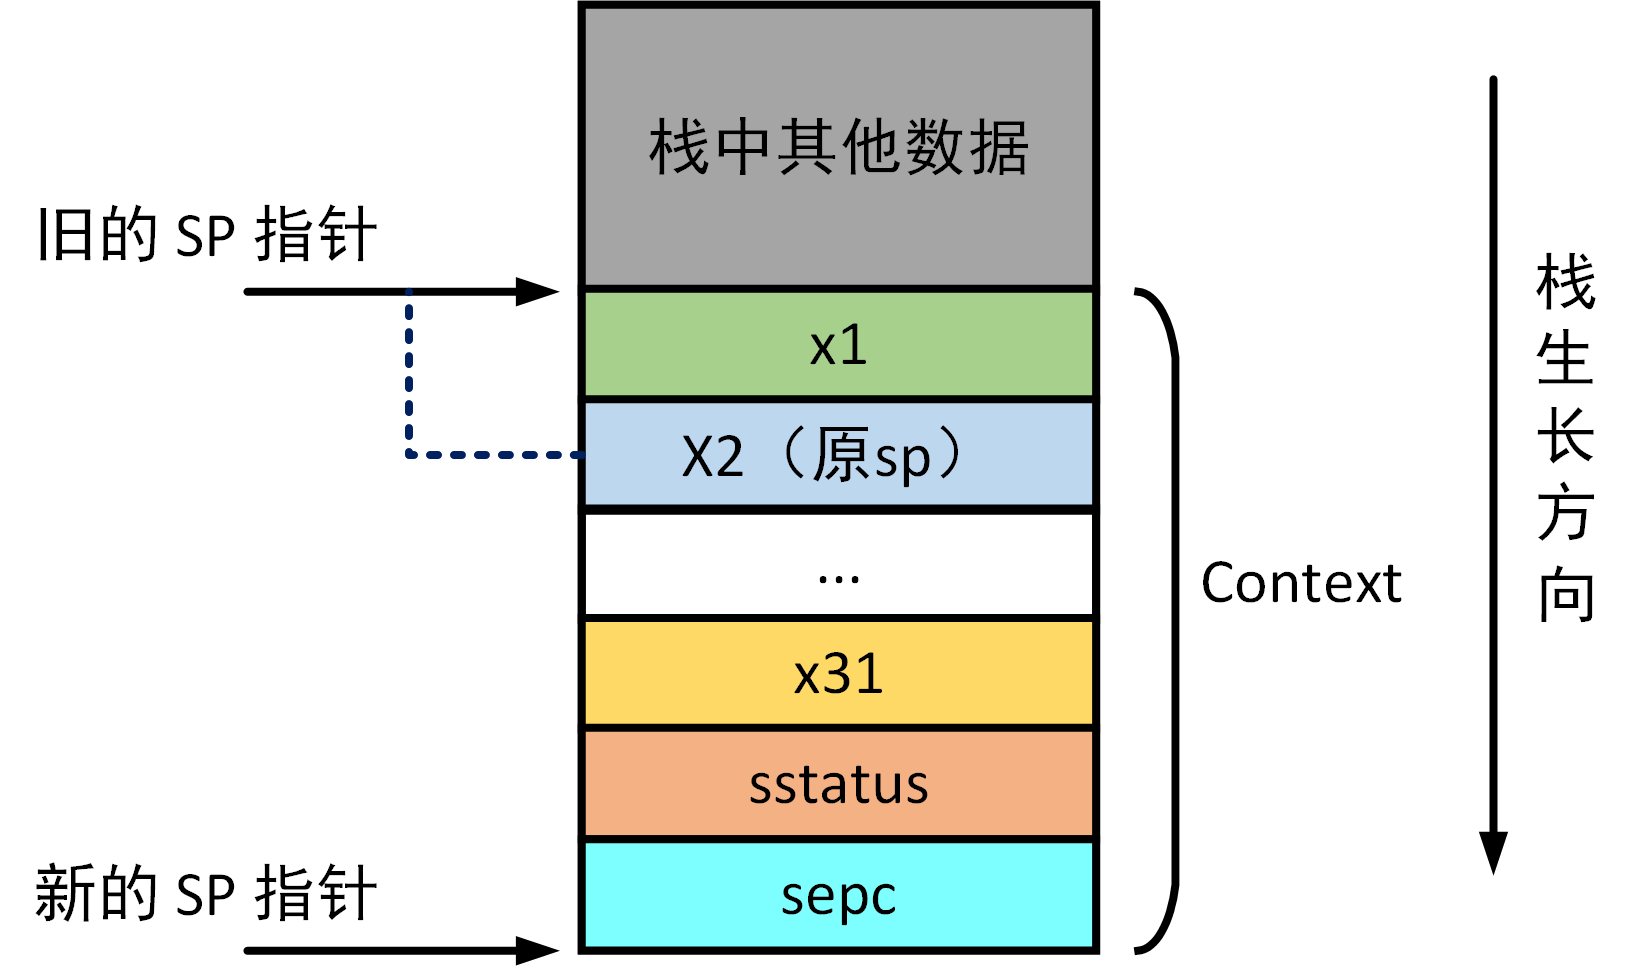
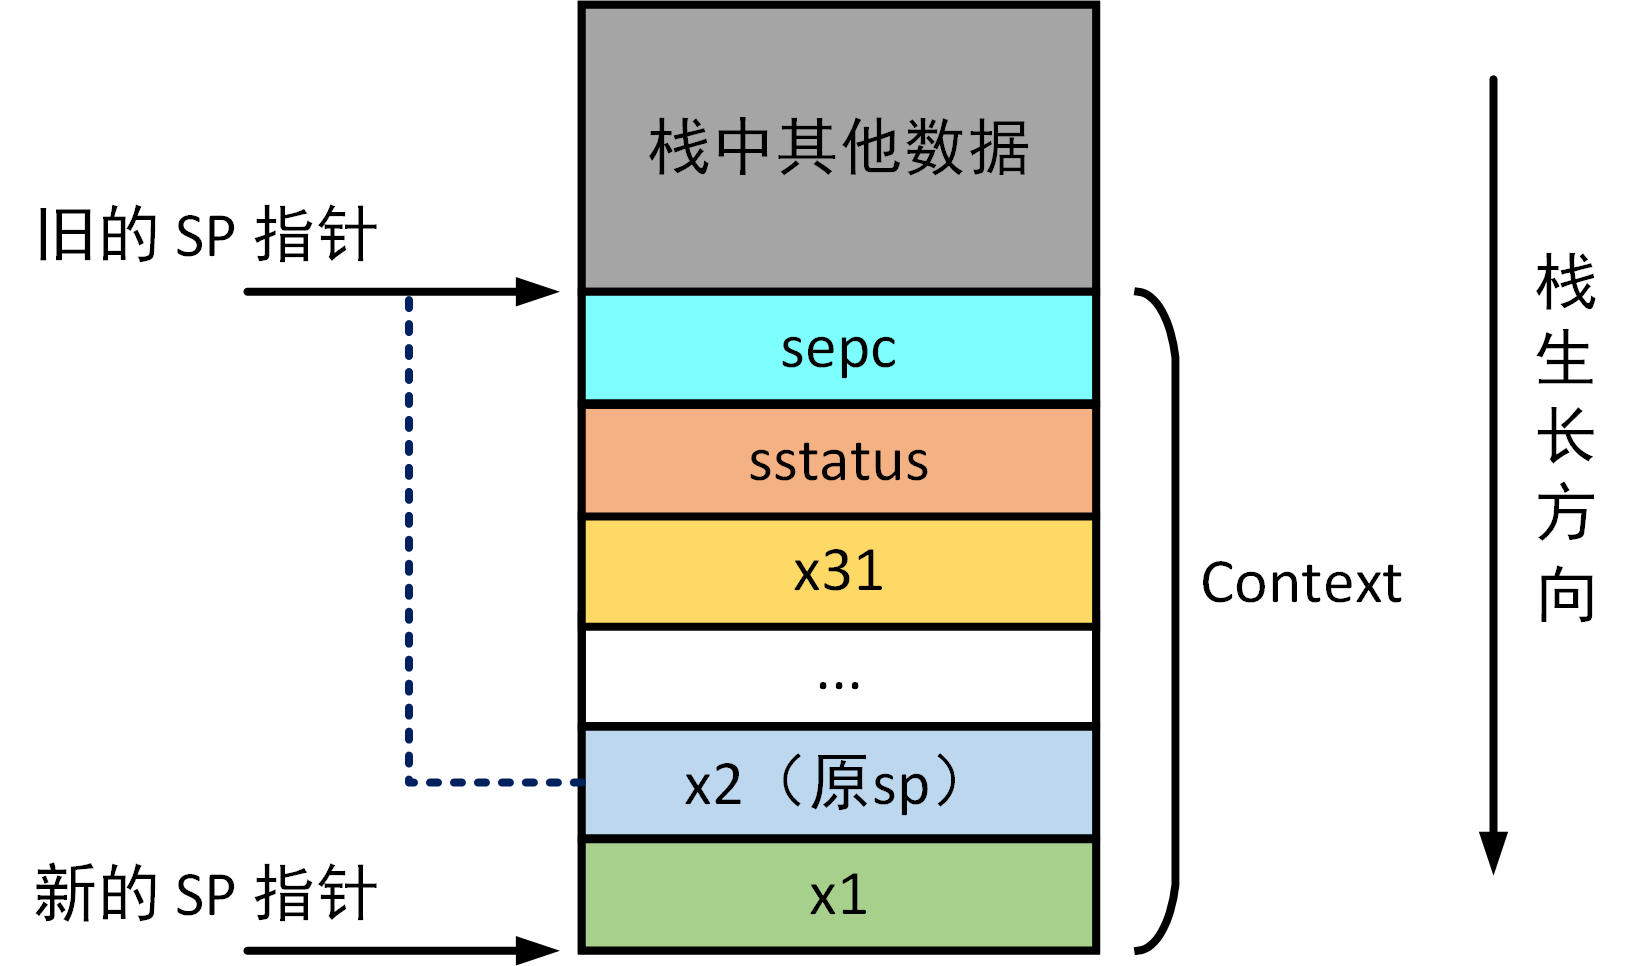
修正一些内容

Changed region(s): [[0.2452, 0.2795, 0.6744, 0.9938], [0.2452, 0.6522, 0.2759, 0.7453], [0.2452, 0.559, 0.2759, 0.6211]]

diff --git a/todo.md b/todo.md
@@ -54,3 +54,184 @@
         supervisorTimer();
         break;  
         5是时钟中断，1L << 63 是什么？
+
+---
+
+# 第三章
+
+- [ ] 3.4 测试 
+  - [x] initMemory()  extern void initHeap(); initHeap(); 有两个initHeap() 核对一下（第一个为声明一个外部函数，第二个才调用）
+  - [ ] ***** Init Interrupt *****
+***** Init Memory *****
+alloc 0x0000000080b23000
+alloc 0x0000000080b24000
+alloc 0x0000000080b25000
+dealloc 0x0000000080b24000
+alloc 0x0000000080b24000
+alloc 0x0000000080b26000
+
+这里的地址能否增加一些说明，把物理内存现在整个的分布大致说明一下，为什么从**0x80b23000** 开始，跟下面这段代码开始的地址什么关系？程序加载需要多大？分配在哪？如果作为实验内容，这里能问出点什么问题?
+
+
+``` C
+// kernel/memory.h
+
+extern void kernel_end();
+
+// 页/帧大小
+#define PAGE_SIZE 4096
+
+// 可以访问的内存区域起始地址
+#define MEMORY_START_PADDR 0x80000000
+
+// 可以访问的内存区域结束地址
+#define MEMORY_END_PADDR 0x88000000
+
+// 内核起始的物理地址
+#define KERNEL_BEGIN_PADDR 0x80200000
+
+// 内核起始的虚拟地址
+#define KERNEL_BEGIN_VADDR 0x80200000
+```
+---
+
+# 第四章
+
+- [ ] 4.2 测试 
+  - [ ] kernel/entry.asm 每一行都加上注释，画一个内存分布图，页表被存的位置
+  - [ ] 能否增加一个调试内容，申请一页，页表变化，把页表打印出来
+- [ ] 4.3 实现页表 
+  - [ ] 这里能不能通过一个具体的例子，然后配上示意图，把转换之间的关系表述明白，然后再去看代码，代码对于初学者还是过于抽象了 
+- [ ] 4.4 重新映射内核 
+  - [ ] 这里，最好能把映射前后内存分布对照着画出来，这样就会清晰很多
+
+---
+
+# 第五章
+
+- [ ] 5.1 
+
+这里对照着x86是有不同的地方，切换时，区分哪部分是硬件完成，哪部分是OS完成？这可以在系统框架里，把这部分完成，说明白 
+
+``` C
+// kernel/context.h
+
+// 线程运行上下文
+typedef struct {
+    usize ra;
+    usize satp;
+    usize s[12];
+    InterruptContext ic;
+} ThreadContext;
+```
+
+- [ ] 5.2 
+
+``` C 
+// kernel/thread.c
+
+__attribute__((naked, noinline)) void
+switchContext(usize *self, usize *target)
+{
+    asm volatile(".include \"kernel/switch.asm\"");
+}
+```
+> 这里使用了两个属性，naked 表示不要在这个函数执行前后加入任何的开场白（prologue）和结语（epilogue），通常的编译器会根据函数调用约定，在函数开头自动加入保存寄存器、设置栈寄存器等内容，这部分我们自行来设置。
+
+像这种用法，对C语言的初级掌握者就挺有挑战，在基础章节那里加一小节，专门介绍和汇总这些用法
+
+  - [ ]
+``` C 
+.equ XLENB, 8
+
+    addi  sp, sp, (-XLENB*14)
+    sd sp, 0(a0)
+    sd ra, 0*XLENB(sp)
+    sd s0, 2*XLENB(sp)
+   
+    ...
+```
+这一段保存了14个信息，ThreadContext结构体中还有别的选项，虽然之前已经提过一次，这里最好再强调一下
+
+  - 程序最后的 `ret` 还有类似的  `sret`  `mret` ，返回时硬件做了什么？怎么跳回到原程序的，稍微介绍一些。
+
+- [ ] 5.3 构造线程结构
+
+> 由于我们已经将完整的 ThreadContext 压栈，待 switchContext() 执行完成返回时，会自动回收 ra、satp 和 s0 ~ s11，栈顶只剩下一个 InterruptContext，这种情况恰好和从中断处理函数返回时是类似的情况！ra 的值被设置为 __restore()，就正是为了借用中断返回机制来初始化线程的一些寄存器，如传参等。从 __restore() 返回就会跳转到 InterruptContext 的 sepc 位置，这正是线程的入口点，同时栈顶指针 sp 也被正确地设置为 kernelStackTop。
+
+这个位置需要好好介绍一下，这里是重点，画个示意图，切换前后，哪些重要的寄存器变化了
+
+``` C 
+usize
+newKernelThreadContext(usize entry, usize kernelStackTop, usize satp)
+{
+    InterruptContext ic;
+    ic.x[2] = kernelStackTop;
+    ic.sepc = entry;
+    ic.sstatus = r_sstatus();
+    ic.sstatus |= SSTATUS_SPP;
+    ic.sstatus |= SSTATUS_SPIE;
+    ic.sstatus &= ~SSTATUS_SIE;
+    ThreadContext tc;
+    extern void __restore(); tc.ra = (usize)__restore;
+    tc.satp = satp;
+    tc.ic = ic;
+    return pushContextToStack(tc, kernelStackTop);
+}
+```
+
+像这段代码，每一行加上注释，`|=` `&=` 等等给予说明
+再有像这段代码，做了几件事，输入输出等，参照一些代码注释规范
+
+- [ ] 5.4 从启动线程到新线程
+  - [ ] 这些函数名能不能有个什么标准，例如POSIX有关线程的一些名字，包括参数名，感觉现在起的有点随意
+  - [ ] 再有两个线程切换之前，在内存的分布情况，包括已经保留的各个特殊的寄存器的值，切换的时候，两套线程的上下文的值变化的情况，如何跟踪查看。简单点说，怎么能在不看代码细节的情况下，把切换过程，先想明白，通过示意图和跟踪的值把这个过程描述清楚 
+
+
+---
+
+# 第六章 线程管理
+
+- [ ] 6.1 线程管理
+  - [ ] 线程池 下面的代码，没对齐，调整一下格式
+
+- [ ] 6.2 调度线程
+  - [ ] 调度线程的中断下面这段代码，凡是出现汇编的地方都要加上注释
+  - [ ] 更好的写法，例如，这里给出一个sstatus寄存器的图，改的是哪几位，改动前后分别是什么值一目了然
+  
+- [ ] 6.3 Round-Robin 调度算法
+  - [ ] 这里是不是可以设计一下，用不同的算法进行实验，你这里写个简要的实验指导书吧，具体算法思想是什么，上课都讲过，也可以查询wiki，实现的时候注意什么？大概分几个步骤？如何验证或测试？
+
+---
+
+# 第七章 用户进程
+
+- [ ] risc-v里进程和线程的关系？x86那里直接先讲的进程，包括作为资源分配的单位，可以申请空间，栈等。risc-v里进程和线程的关系在前面哪里单独介绍一下吧，有点模糊。寄存器 x4 thread pointer ，为什么单独有这么个寄存器，没有进程的，可以探讨的深入一些，肯定有这么设计的道理
+
+---
+
+# 第八章 文件系统
+
+- [ ] 这章多一些流程图或是解释操作的示意图，代码多了以后，调理就不那么清晰了
+- [ ] 这里是不是也可以让能力稍强一点的同学，实现一个别的文件系统
+
+---
+
+# 第九章 文件系统
+
+- [ ] 9.1 键盘中断这里可以给几个图，把原理大概阐明一下，大体步骤，然后需要设置什么，最好画出相应寄存器，对照着看，一下就知道了。其实这里需要设置一堆标志位一类，这种东西，繁琐，而且就是规定，照着做就行，重点把逻辑写明白就好
+- [ ] 9.1 “还可以直接使用 OpenSBI 的服务 CONSOLE_GETCHAR，就能读取到输入的字符了”，说一下为什么使用OpenSBI 而不是自己写
+- [ ] 9.2 缓冲的过程画个示意图，详细解释一下，缓冲到哪？怎么读取缓冲？什么时候读？读多少？
+
+---
+
+
+# 整体问题
+  - 其实你这里已经实现了从启动到线程创建，再到线程切换，但是，这里介绍的整体性不够，我的意思是，启动是在内核态，如何跳到创建的用户线程，线程切换时，控制权应该交还给内核，再切换到另一线程，类似我上课讲的linux 0.00，这里除了介绍必要的切换的细节，还有就是优先级如何跳转的，这里应该多写一些。
+  - 再有配上图，把整个过程介绍清楚，特别要介绍，在各种切换，优先级转换，跳转，返回等，硬件做了什么，这对于程序员是不可见的，也是编写操作系统的难点，不理解这里面的过程和细节，就没办法编写程序
+  - 还有关于栈的介绍。通用寄存里有一个栈指针寄存器，保存用户栈，但当放生特权级转换时，进入到内核态，用户态时的栈指针等通用寄存器被作为上下文被压入到“什么”栈里？内核栈？每个用户线程都有各自内核栈？因为我没跟踪程序，这里我没太想明白。上下文保存与恢复借助了栈，这个没问题。但是系统调用时，进入内核后用的栈是什么时候创建的，栈指针是什么时候，怎么初始的？（之后我才看到7.3的最后有些介绍）
+  - 代码加注释，多加示意图和流程图，参照上面每章具体意见
+
+# 建议
+- 能不能仿照linux0.00，用risc-v 纯汇编写个一样的程序，直接写好打印A，B的两个程序放在内存里，然后，从启动，到时钟中断，到打印调用，伴随着栈切换，进程切换等等，这样可以把所有设计特权模式下的东西都解释了，可以配合着最前面放的章节一起把有关内容就介绍了
+- 个人感觉，所有机理你都懂了，而且已写过相应代码，包括汇编也都很熟悉，我觉得你很快就能写出来，加油！

diff --git a/c2/p3.md b/c2/p3.md
@@ -39,7 +39,7 @@ scause 和 stval 将在中断处理过程中作为参数传递，由于处理过
 .altmacro
 # 寄存器宽度 8 字节
 .set    REG_SIZE, 8
-# InterruptContext 大小为 34 字节
+# Context 大小为 34 字节
 .set    CONTEXT_SIZE, 34
 
 # 宏：保存寄存器到栈上
@@ -60,24 +60,21 @@ scause 和 stval 将在中断处理过程中作为参数传递，由于处理过
     LOAD  x\n, \n
 .endm
 
+
     .section .text
     .globl __interrupt
     # 中断处理函数需要 4 字节对齐
     .balign 4
-# 全局中断处理，保存 InterruptContext 并跳转到 handleInterrupt() 处
+# 全局中断处理，保存 Context 并跳转到 handleInterrupt() 处
 __interrupt:
-		# 判断 sscratch 是否为 0
-		# 如果是 0 说明从 S-Mode 进入中断，不需要切换栈
-    csrrw   sp, sscratch, sp
-    bnez    sp, from_user
-from_kernel:
-    csrr    sp, sscratch
-from_user:
-    # 移动栈指针，留出 InterruptContext 的空间
+    # 移动栈指针，留出 Context 的空间
     addi    sp, sp, -34*REG_SIZE
     
     # 保存通用寄存器，其中 x0 固定为 0
     SAVE    x1, 1
+    # 将原来的 sp 写入 2 位置
+    addi    x1, sp, 34*REG_SIZE
+    SAVE    x1, 2
     # 循环保存 x3 至 x31
     .set    n, 3
     .rept   29
@@ -85,42 +82,30 @@ from_user:
         .set    n, n + 1
     .endr
 
-    csrrw   s0, sscratch, x0
     # 保存 CSR
     csrr    s1, sstatus
     csrr    s2, sepc
-
-    # 将 sp、sstatus 和 sepc 保存到栈上 
-    SAVE    s0, 2
     SAVE    s1, 32
     SAVE    s2, 33
 
     # 调用 handleInterrupt()
-    # 将 InterruptContext 的地址(栈顶)和 scause、stval 作为参数传入
+    # 将 Context 的地址(栈顶)和 scause、stval 作为参数传入
     mv      a0, sp
     csrr    a1, scause
     csrr    a2, stval
     jal     handleInterrupt
 
+
     .globl __restore
 # 从 handleInterrupt 返回
-# 从 InterruptContext 中恢复所有寄存器，并跳转至 InterruptContext 中 sepc 的位置
+# 从 Context 中恢复所有寄存器，并跳转至 Context 中 sepc 的位置
 __restore:
     # 恢复 CSR
-		# sstatus
     LOAD    s1, 32
-		# sepc
     LOAD    s2, 33
-		
-		# 通过判断 sstatus 的 SPP 位来判断从 S-Mode 进入中断还是从 U-Mode
-    andi    s0, s1, 1 << 8
-    bnez    s0, to_kernel
-to_user:
-    addi    s0, sp, 34 * REG_SIZE
-    csrw    sscratch, s0
-to_kernel:
     csrw    sstatus, s1
     csrw    sepc, s2
+
     # 恢复通用寄存器
     LOAD    x1, 1
     # 恢复 x3 至 x31

diff --git a/c3/p1.md b/c3/p1.md
@@ -85,13 +85,13 @@ Step 1 是内存区间的初始样式，我们首先需要分配一个100 单位
 ```c
 // kernel/heap.c
 
-typedef struct
+struct
 {
     // 管理的总块数
     uint32 size;
     // 每个节点表示范围内空闲块个数
     uint32 longest[BUDDY_NODE_NUM];
-} BuddyTree;
+} buddyTree;
 ```
 
 ## 初始化
@@ -121,7 +121,7 @@ buddyInit(int size)
 
 ## 分配块
 
-用来分配块的 `allocFrame()` 函数中，传入的参数是需要分配的块大小，返回的是内存块的索引。该函数首先将 `size` 调整为 2 的幂级数，随后对二叉树节点进行遍历。找到对应的节点后，将其标记为占用，并且从该节点向上回溯，修改上级节点的值。
+用来分配块的 `buddyAlloc()` 函数中，传入的参数是需要分配的块大小，返回的是内存块的索引。该函数首先将 `size` 调整为 2 的幂级数，随后对二叉树节点进行遍历。找到对应的节点后，将其标记为占用，并且从该节点向上回溯，修改上级节点的值。
 
 ```c
 // kernel/heap.c

diff --git a/c3/p2.md b/c3/p2.md
@@ -4,7 +4,7 @@
 
 上一节我们实现了 Buddy System Allocation 算法，这一节我们来基于此算法实现动态内存分配。
 
-# 实现 `malloc`
+# 实现 `kalloc`
 
 我们可以直接声明一个 8M 大数组，作为堆空间，用于动态内存分配。
 
@@ -13,7 +13,7 @@
 #define KERNEL_HEAP_SIZE    0x800000        // 堆空间大小
 
 // kernel/heap.c
-const static uint8 HEAP[KERNEL_HEAP_SIZE];
+static uint8 HEAP[KERNEL_HEAP_SIZE];
 ```
 
 同时，我们定义一些构造 Buddy System 所使用的常量。
@@ -91,7 +91,7 @@ kfree(void *ptr)
 我们来编写一个测试函数，很巧的是，我们的最小分配单位和第一节中的那个例子一致，都是 64。
 
 ```c
-// src/heap.c
+// kernel/heap.c
 
 void
 testHeap()
@@ -111,7 +111,7 @@ testHeap()
     kfree(c);
     a = kalloc(60);
     printf("a:\t%p\n", a);
-    free(a);
+    kfree(a);
 }
 ```
 

diff --git a/c6/p1.md b/c6/p1.md
@@ -56,17 +56,17 @@ typedef struct {
 ```c
 // 调度器（函数指针）
 typedef struct {
-		// 初始化调度器
+    // 初始化调度器
     void    (* init)(void);
     // 将一个线程加入线程调度
-		void    (* push)(int);
-		// 从若干可运行线程中选择一个运行
-		// 如果没有可运行的线程则返回 -1
+    void    (* push)(int);
+    // 从若干可运行线程中选择一个运行
+    // 如果没有可运行的线程则返回 -1
     int     (* pop) (void);
-		// 提醒调度算法当前线程又运行了一个 tick
+    // 提醒调度算法当前线程又运行了一个 tick
     // 返回的 int 表示调度算法认为当前线程是否需要被切换出去
     int     (* tick)(void);
-		// 告诉调度算法某个线程已经结束
+    // 告诉调度算法某个线程已经结束
     void    (* exit)(int);
 } Scheduler;
 ```

diff --git a/c0/README.md b/c0/README.md
@@ -33,7 +33,7 @@ $ sudo pacman -S riscv64-linux-gnu-binutils riscv64-linux-gnu-gcc riscv64-linux-
 使用如下命令安装交叉编译工具链：
 
 ```bash
-$ sudo apt install git build-essential gdb-multiarch gcc-riscv64-linux-gnu binutils-riscv64-linux-gnu
+$ sudo apt install git build-essential gdb-multiarch gcc-riscv64-linux-gnu binutils-riscv64-linux-gnu pkg-config libglib2.0-dev libpixman-1-dev
 ```
 
 ## 在 MacOS 下安装
